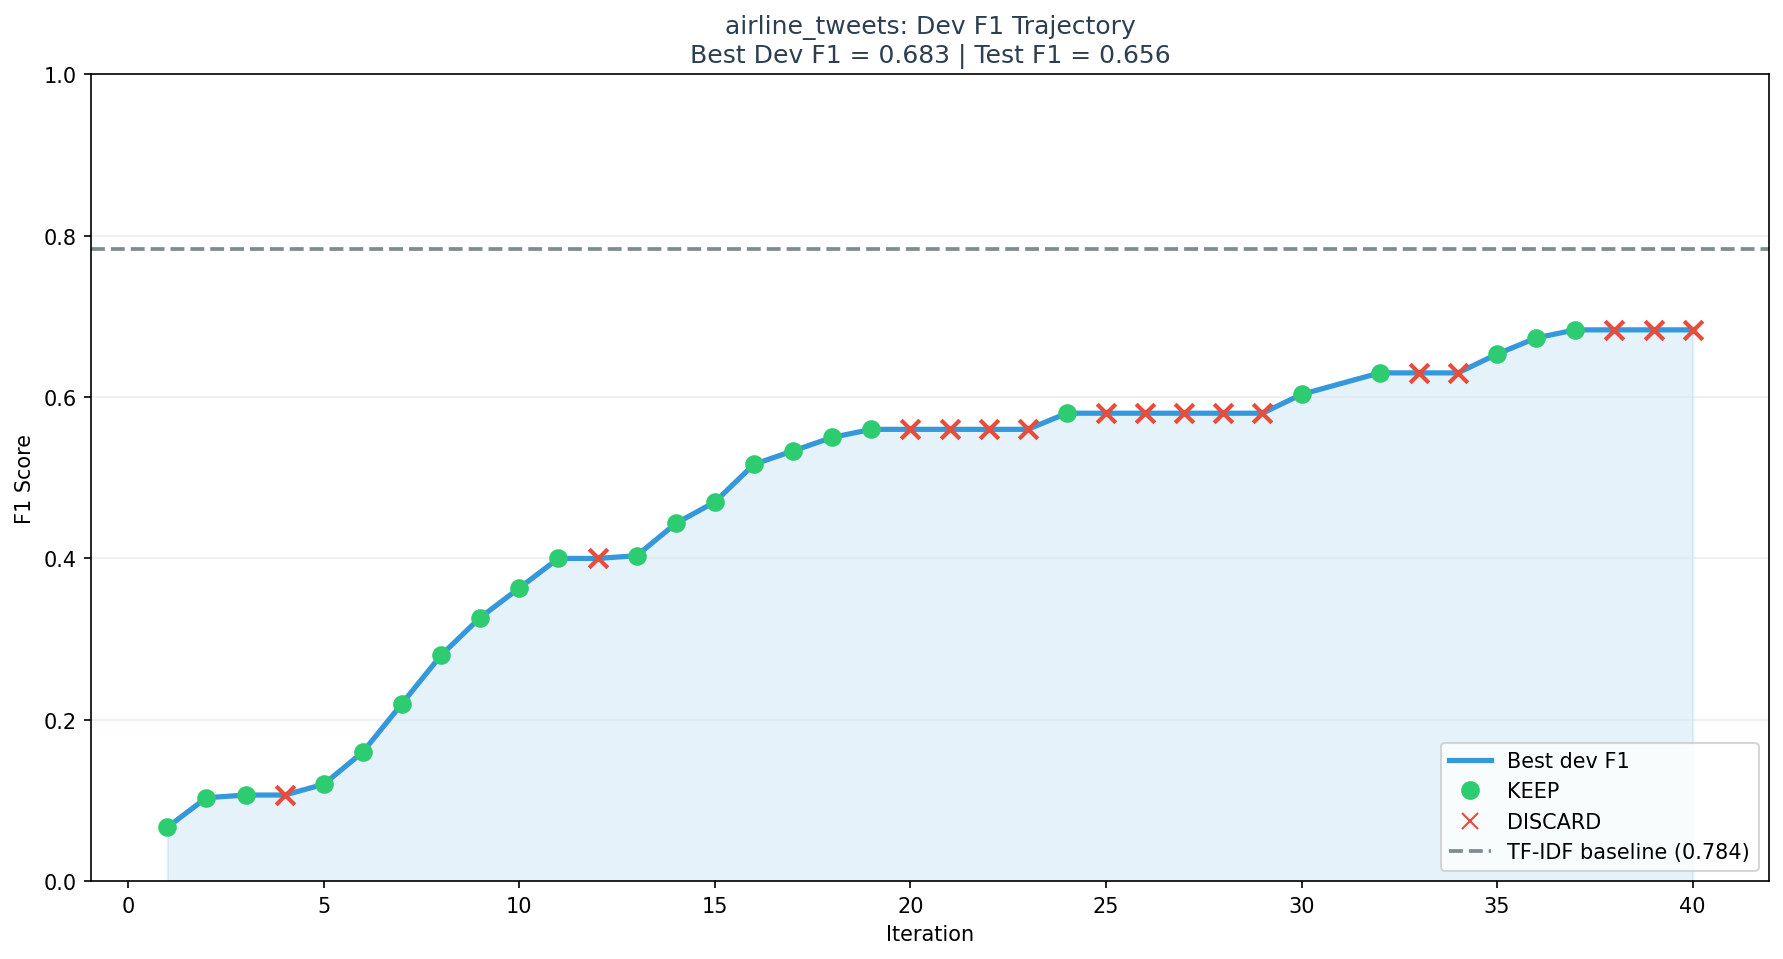
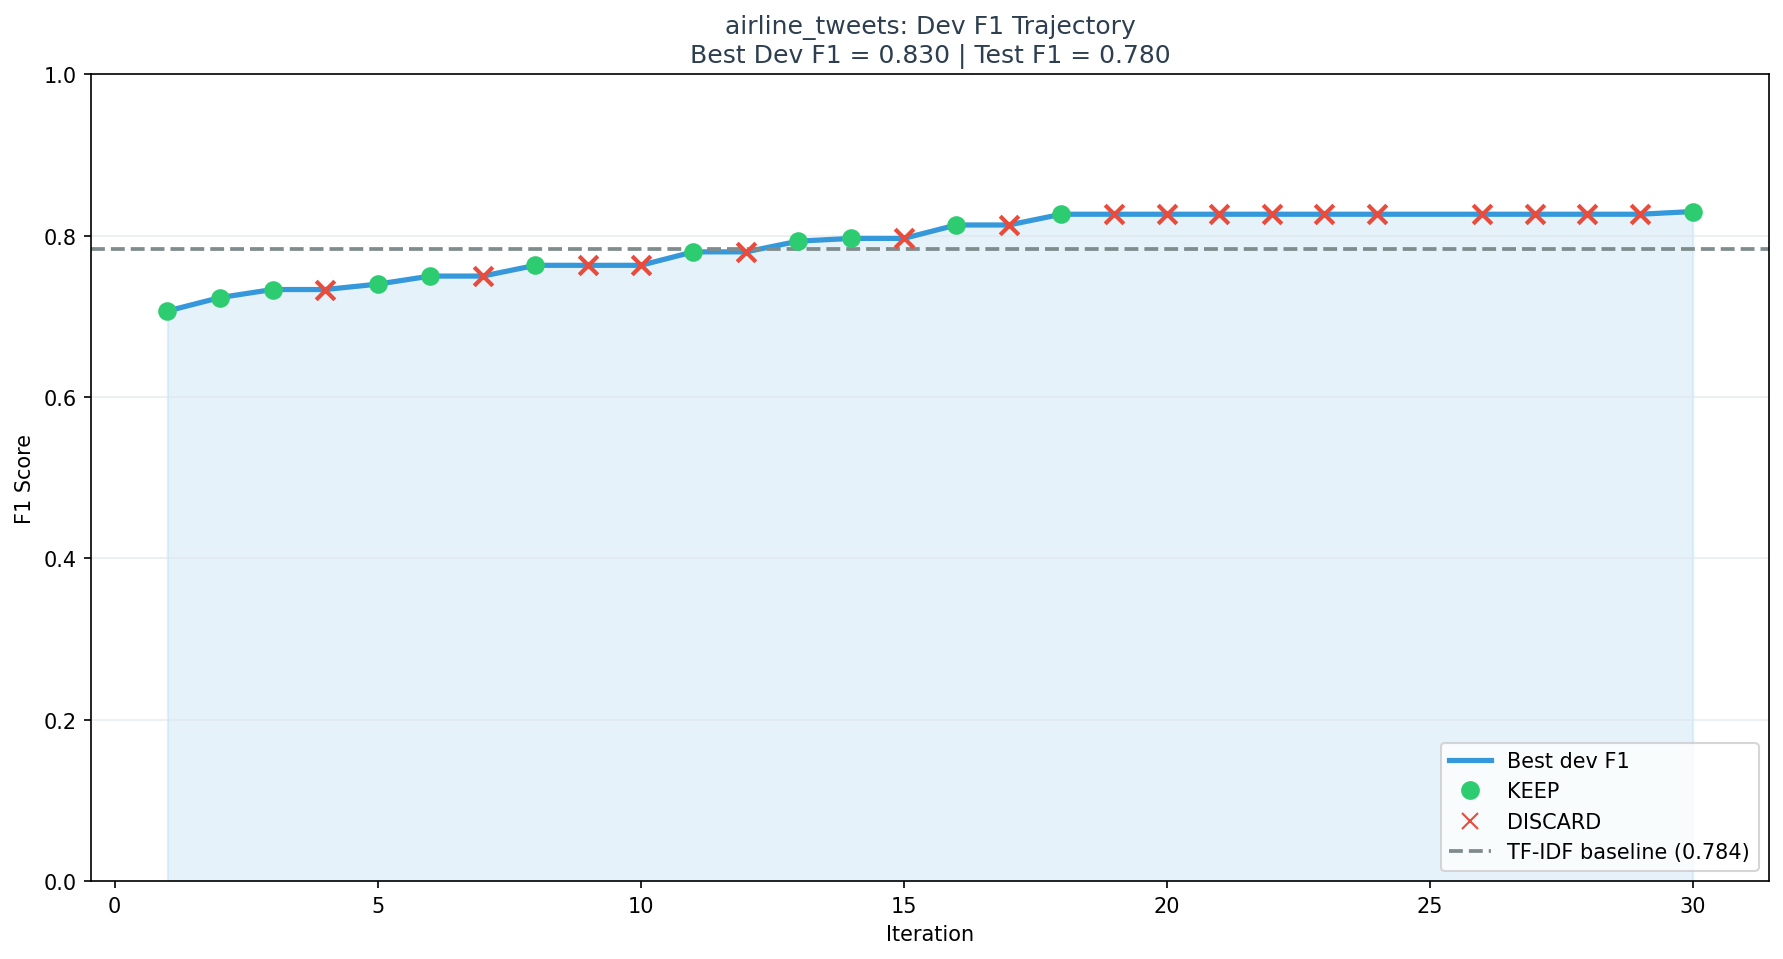
Update benchmark results: AutoLabel F1 0.656 -> 0.780 on airline_tweets
Re-ran benchmark with 30 iterations on airline_tweets:
- AutoLabel test F1 improved from 0.656 to 0.780 (accuracy 0.835)
- Zero-shot LLM baseline attempted (timed out at 294/500 on Groq free tier)
- Few-shot LLM baseline skipped (budget exhausted)
- Regenerated proof charts with updated results
- Updated README results table

diff --git a/README.md b/README.md
@@ -19,14 +19,14 @@ Project status: beta research system focused on automated LF authoring, reproduc
 
 ## Measured Result
 
-Measured on `airline_tweets` entity extraction with a 40-iteration autonomous run.
+Measured on `airline_tweets` entity extraction with a 30-iteration autonomous run.
 
 | Method | Test F1 | Setting |
 |--------|---------|---------|
 | Random baseline | 0.096 | Label-space random guess |
 | Majority class | 0.086 | Predict most frequent train label |
 | TF-IDF + LogReg | 0.784 | Supervised baseline trained on the labeled train split |
-| **AutoLabel** (`llama-3.1-8b-instant`, 40 iters) | **0.656** | Autonomous LF generation + weak-supervision aggregation |
+| **AutoLabel** (`llama-3.1-8b-instant`, 30 iters) | **0.780** | Autonomous LF generation + weak-supervision aggregation |
 
 Committed proof artifacts:
 
